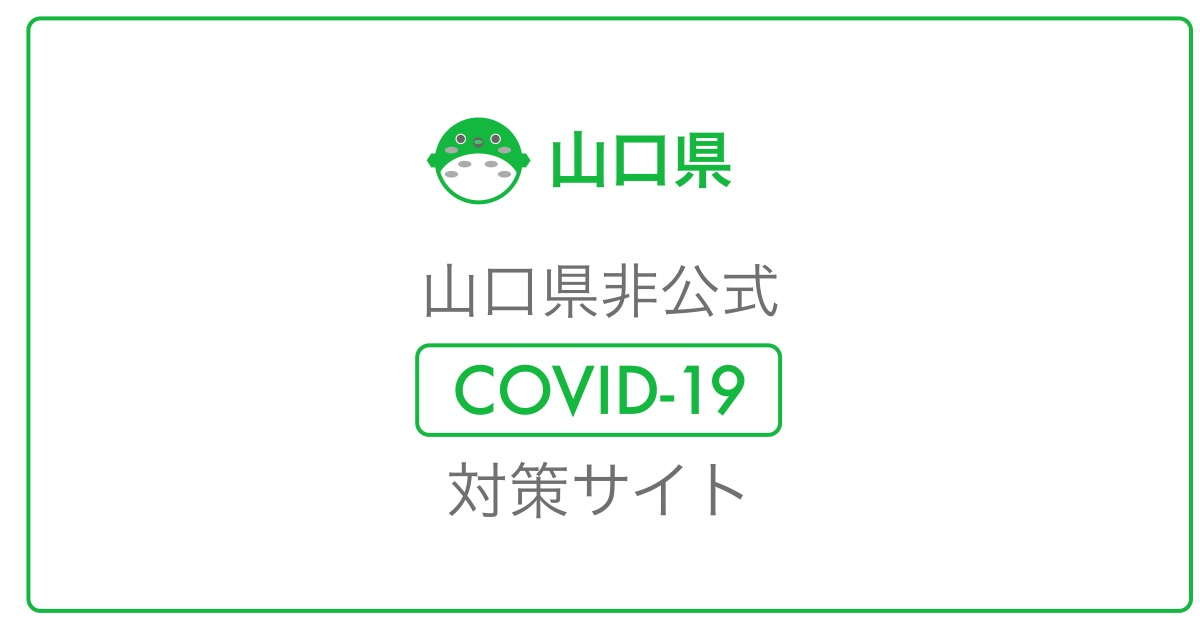
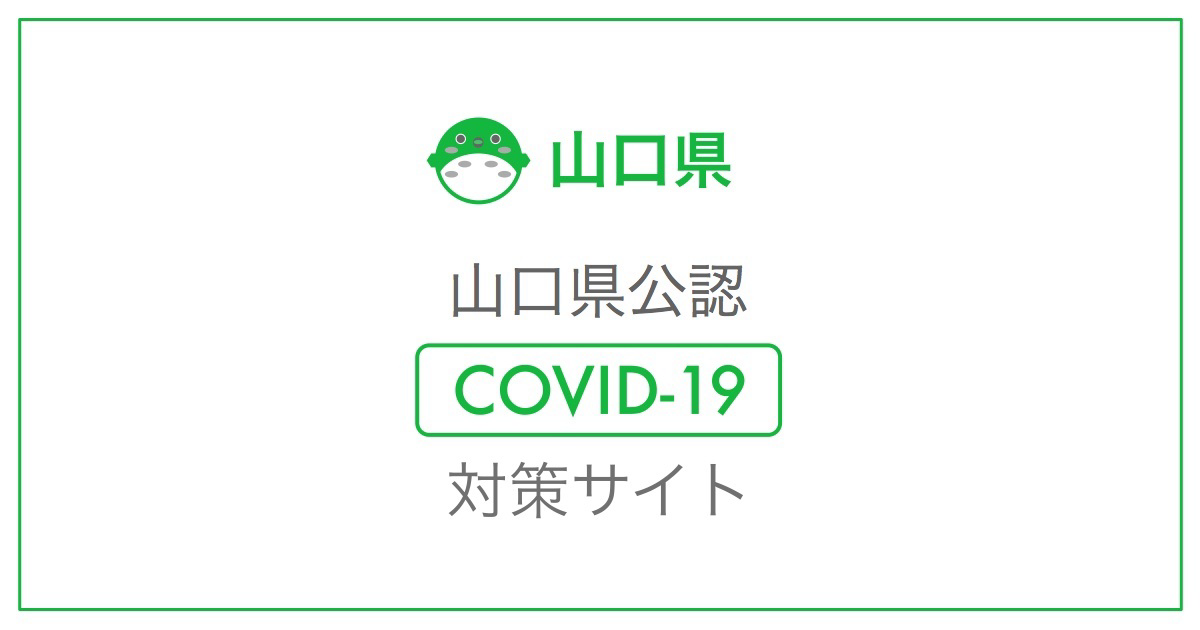
山口県公認版の画像に変更

Changed region(s): [[0.0, 0.0, 1.0, 0.9952], [0.3392, 0.4222, 0.6475, 0.5127]]

diff --git a/nuxt.config.ts b/nuxt.config.ts
@@ -59,7 +59,7 @@ const config: Configuration = {
         hid: 'og:image',
         property: 'og:image',
         content:
-          'https://user-images.githubusercontent.com/42875682/76772976-17a3bd80-67e5-11ea-8f4e-ab01df696fc6.png'
+          'https://user-images.githubusercontent.com/42875682/80171665-ea3d0180-8625-11ea-8727-c47dbcb0ea73.png'
       },
       {
         hid: 'twitter:card',
@@ -80,7 +80,7 @@ const config: Configuration = {
         hid: 'twitter:image',
         name: 'twitter:image',
         content:
-          'https://user-images.githubusercontent.com/42875682/78683674-8d093680-792a-11ea-9fe9-5cb20d2cafb2.png'
+          'https://user-images.githubusercontent.com/42875682/80171665-ea3d0180-8625-11ea-8727-c47dbcb0ea73.png'
       },
       {
         hid: 'fb:app_id',
